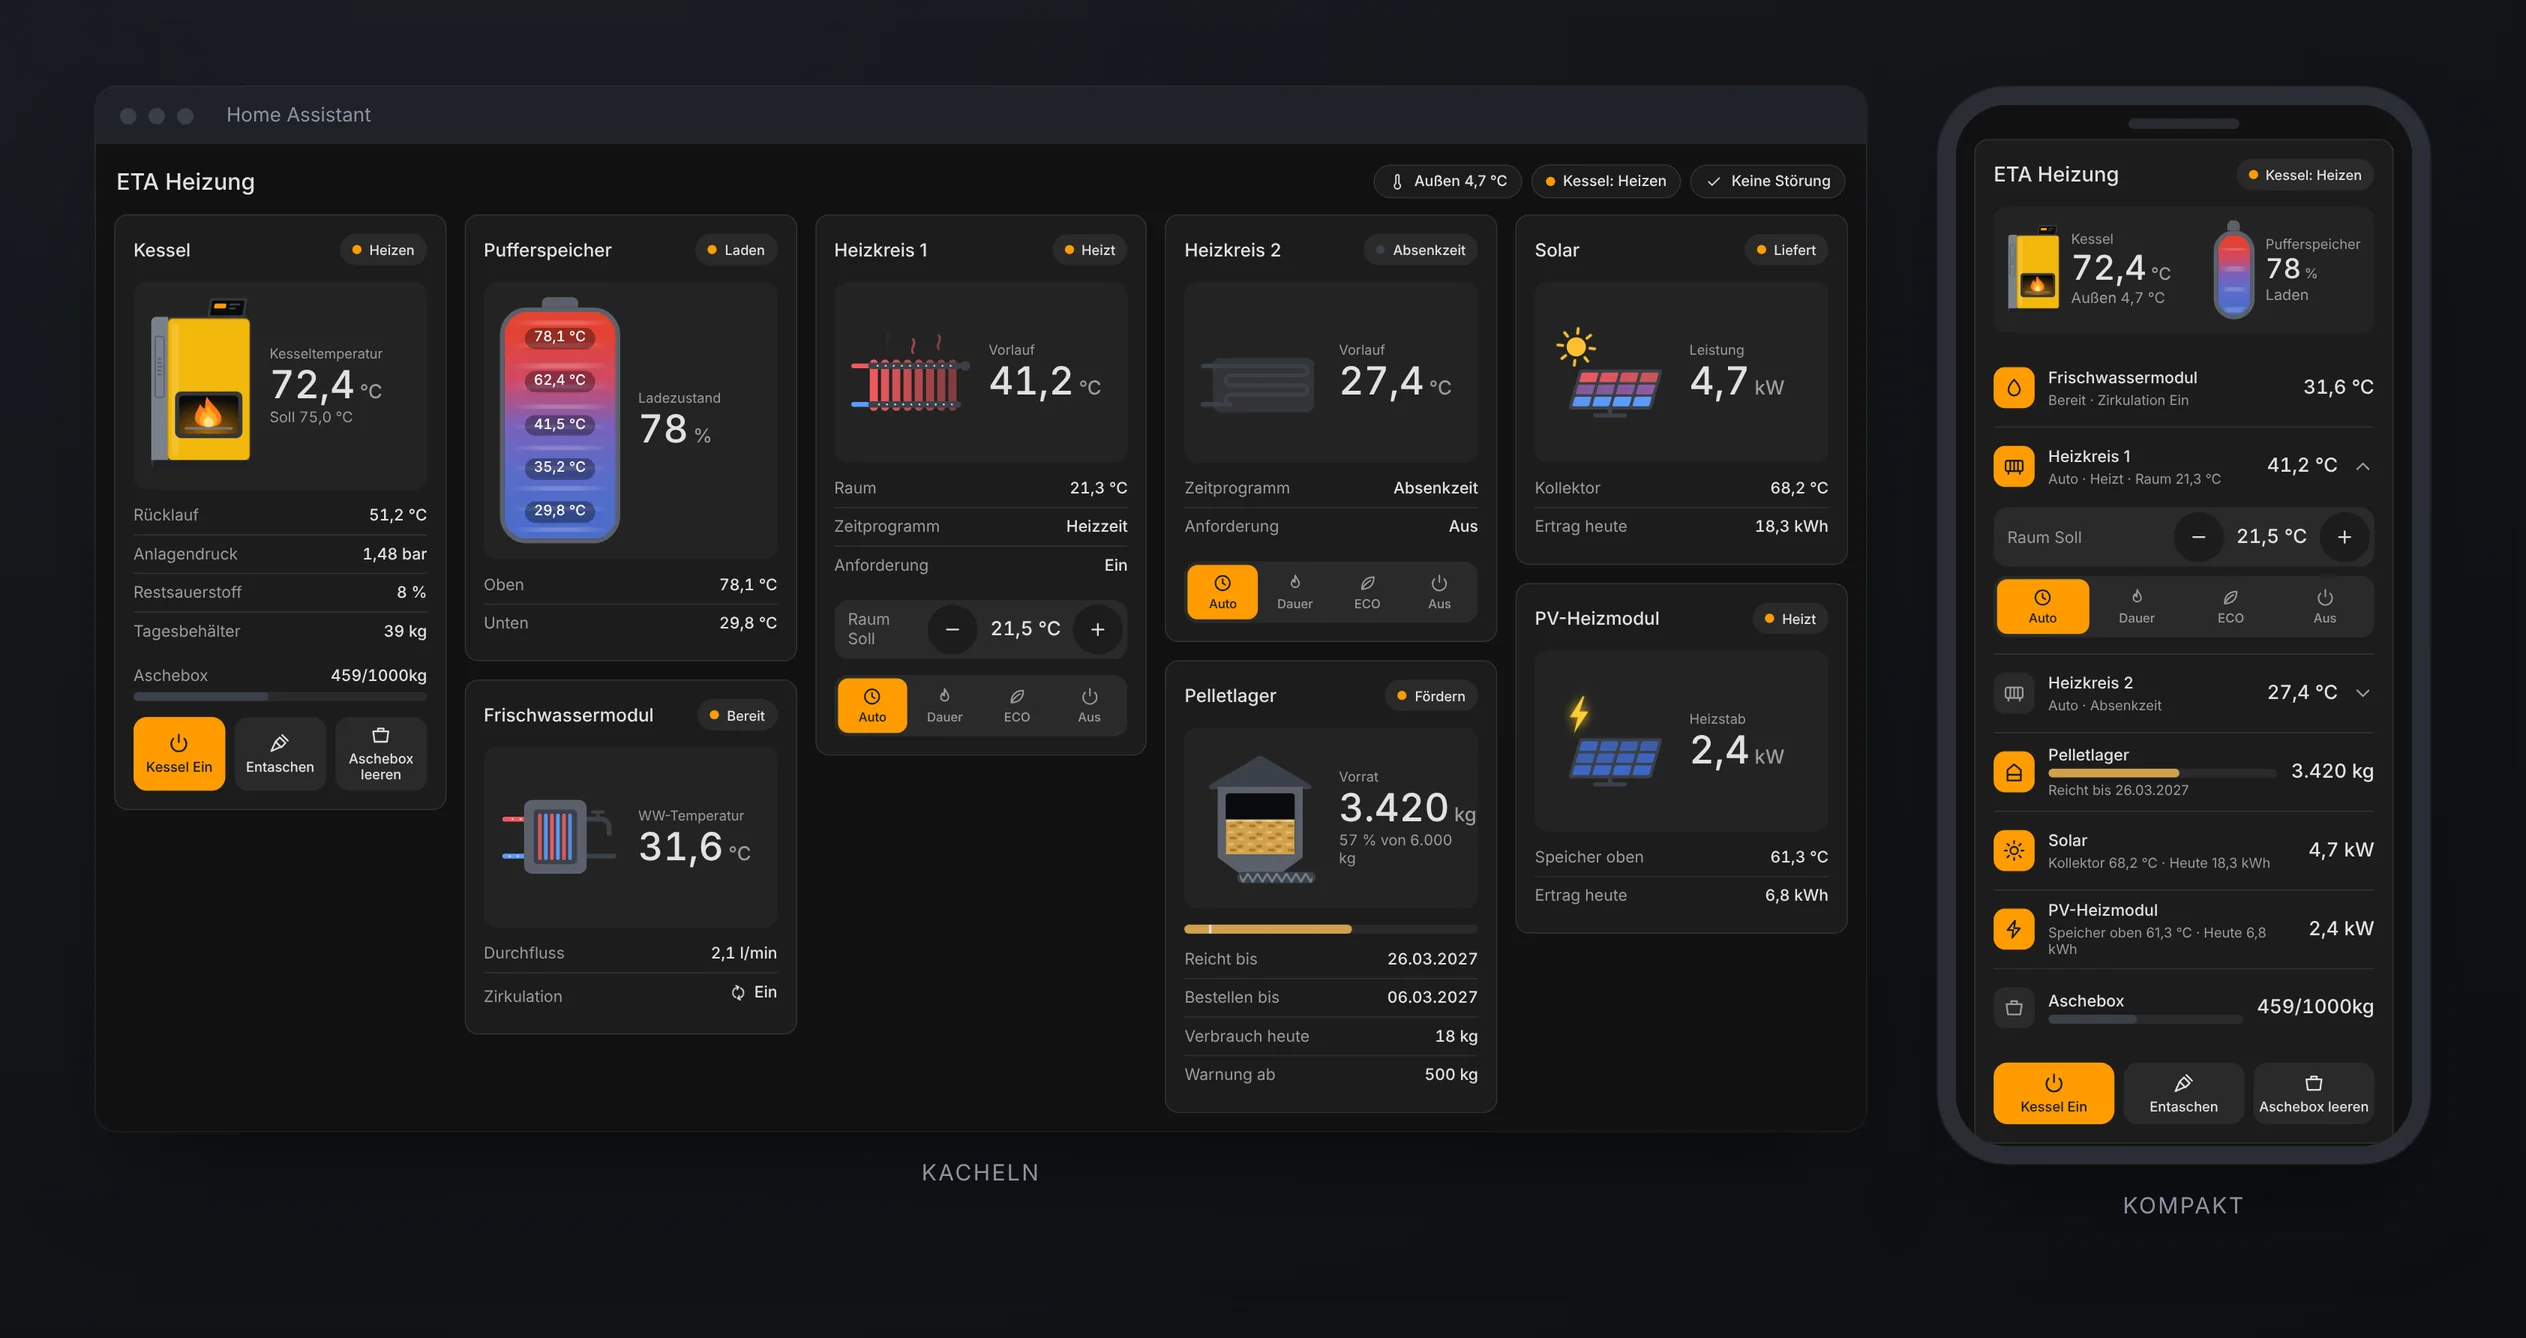
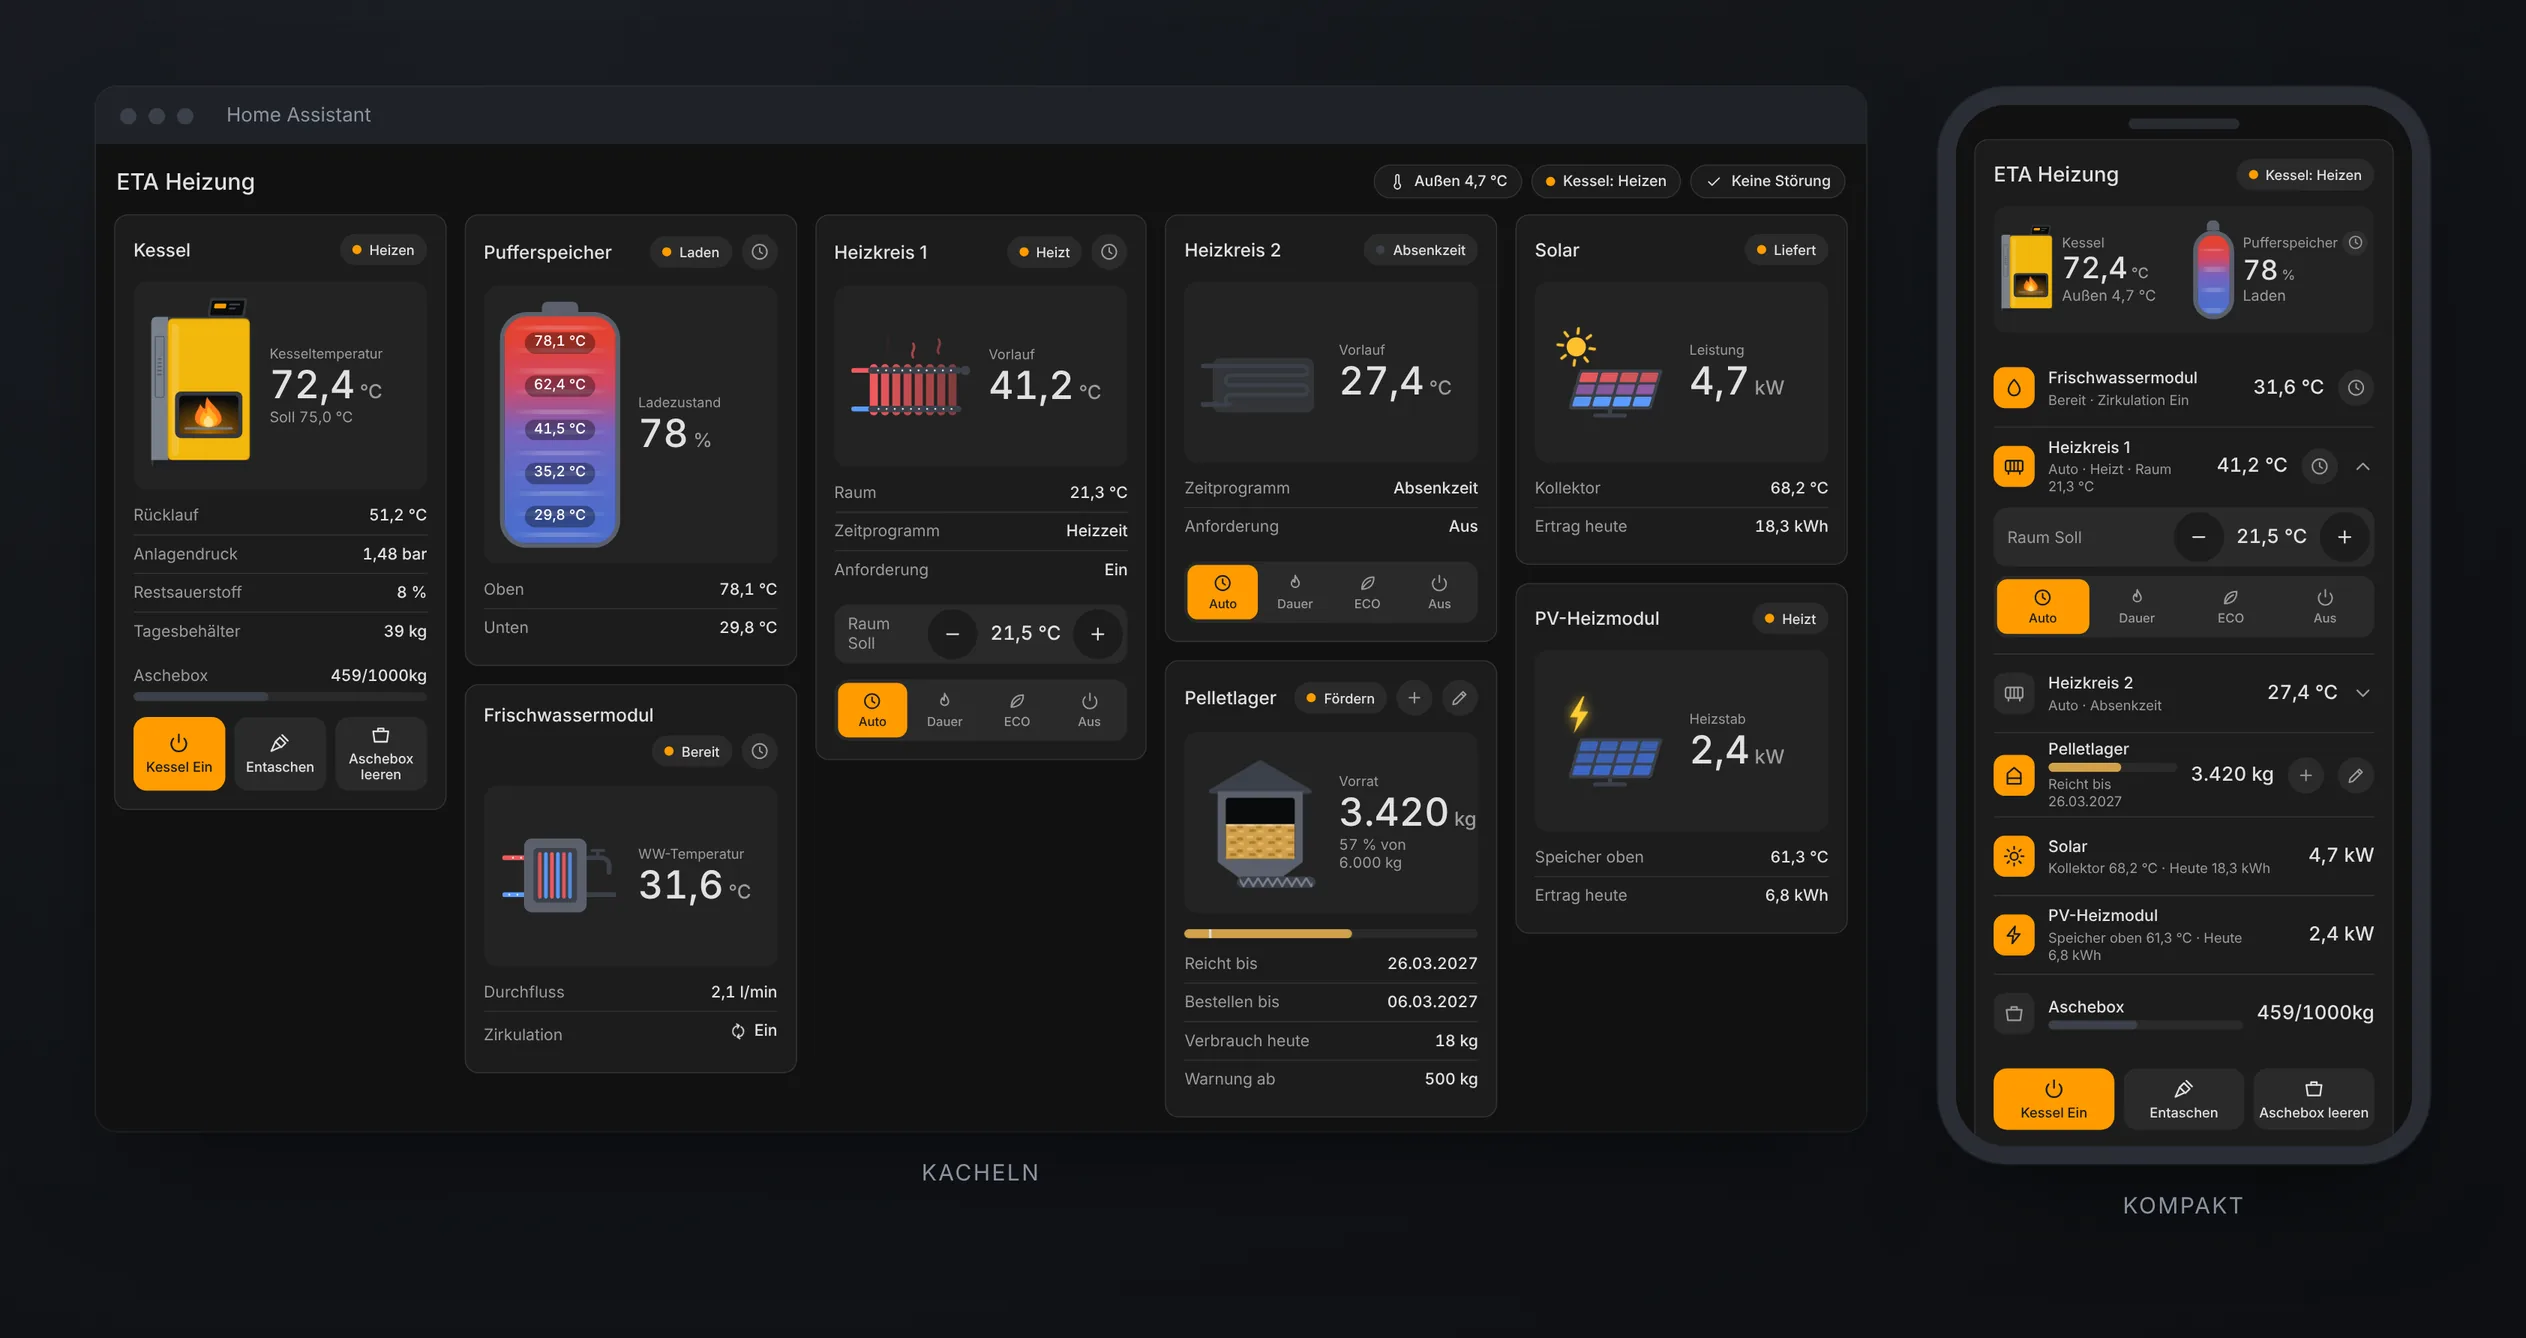
Karte: Kompakt zeigt Kessel und Puffer am Handy wieder nebeneinander
Seit der Uhr am Pufferspeicher brachen beide auf Handys mit rund 390 px
Breite untereinander um. Unter 400 px Kartenbreite rueckt die Buehne
enger zusammen. Vorschaubilder im README neu erzeugt: Lager mit Plus und
Stift, Uhren an den Zeitprogrammen.

diff --git a/custom_components/eta_heating_ws/oberflaeche/eta-uebersicht-karte.js b/custom_components/eta_heating_ws/oberflaeche/eta-uebersicht-karte.js
@@ -687,6 +687,13 @@ const STIL = `
     .eta-zahl { font-size: 30px; }
     .eta-szene { padding: 14px; }
   }
+  @container (max-width: 400px) {
+    .eta-kompakt .eta-buehne { gap: 10px 6px; padding: 12px 6px; }
+    .eta-kompakt .eta-buehne .eta-gruppe { gap: 8px; }
+    .eta-kompakt .eta-buehne .eta-zahl { font-size: 26px; }
+    .eta-kompakt .eta-buehne .eta-label .eta-zeit { width: 22px; height: 22px; margin: -3px 0 -2px 4px; position: relative; }
+    .eta-kompakt .eta-buehne .eta-label .eta-zeit::after { content: ""; position: absolute; inset: -9px; }
+  }
 `;
 
 const sym = (d, klasse = "") => `<svg class="eta-icon ${klasse}" viewBox="0 0 24 24" aria-hidden="true">${d}</svg>`;
